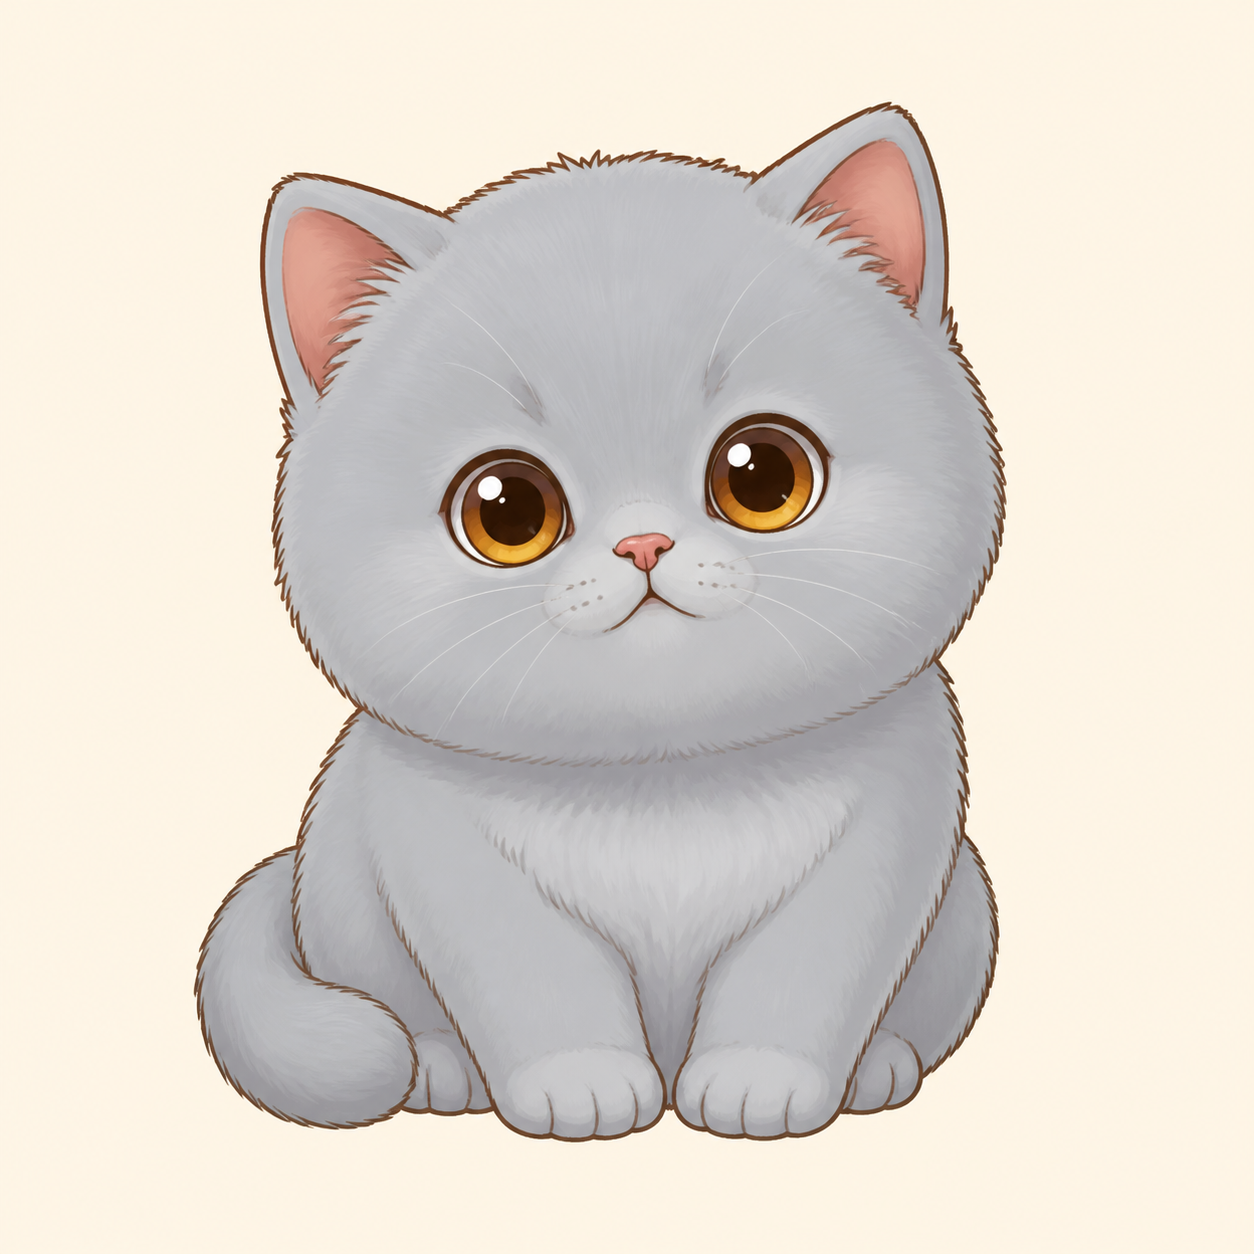
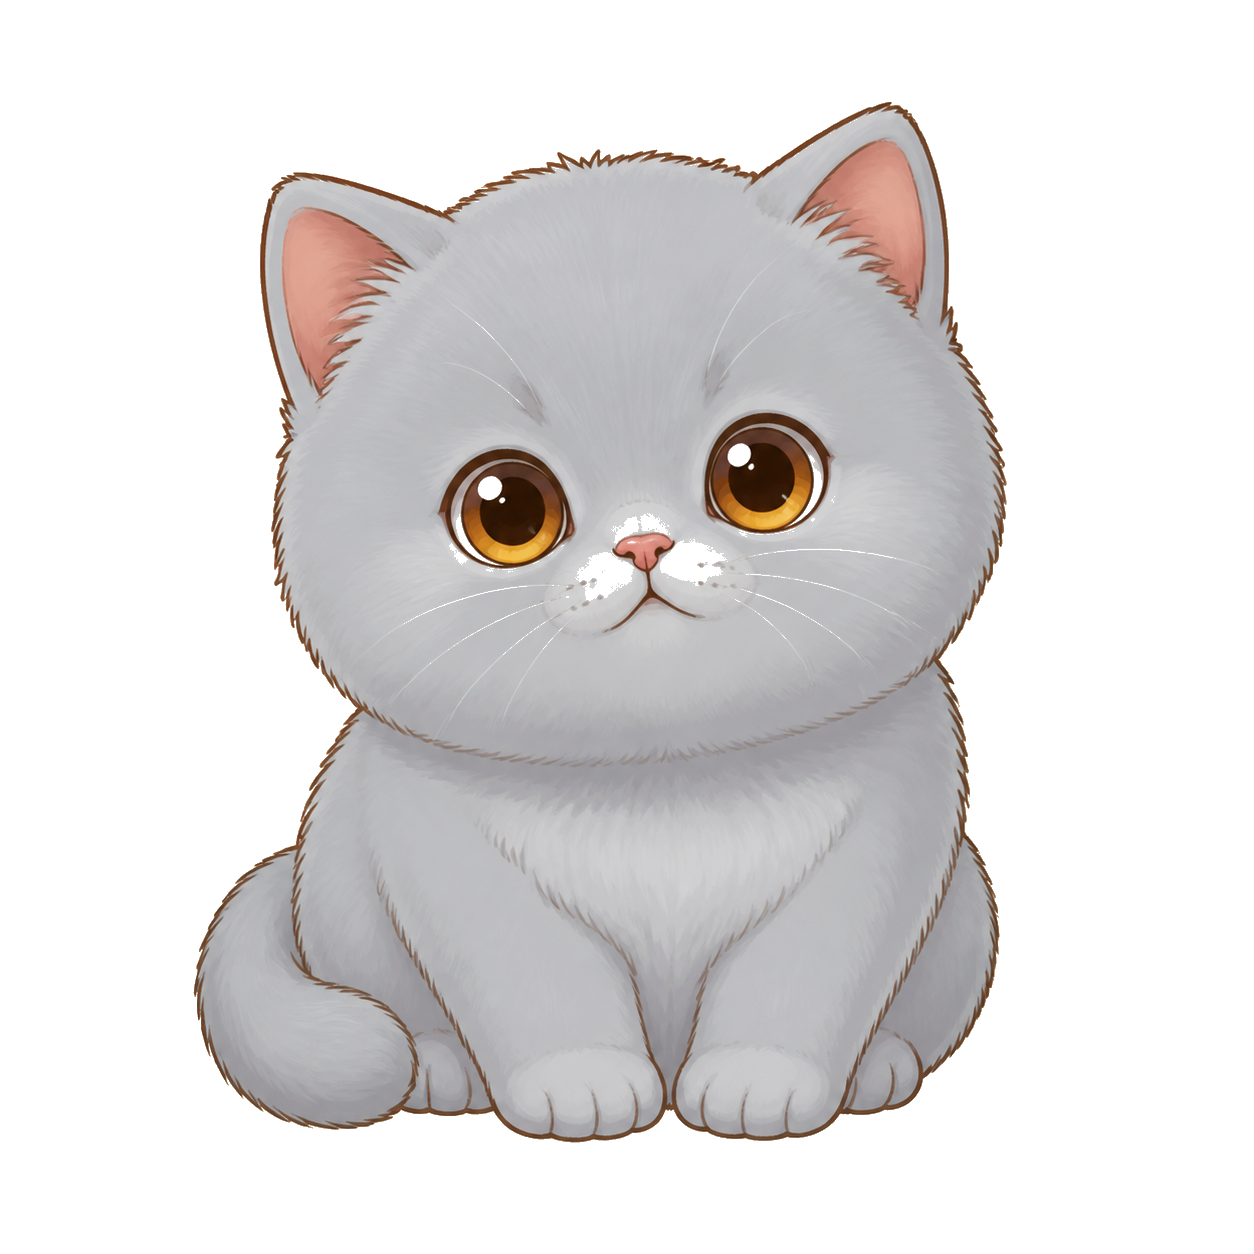
fix: 随行头像RGBA透明化(抠背景色)

diff --git a/tools/make_portrait_transparent.py b/tools/make_portrait_transparent.py
@@ -1,0 +1,22 @@
+from PIL import Image
+import numpy as np
+
+for breed in ['orange', 'british', 'siamese']:
+    path = f'assets/art/delivery/portraits/portrait_{breed}.png'
+    img = Image.open(path).convert('RGBA')
+    arr = np.array(img)
+    
+    # 背景色 = 四角颜色均值
+    corners = [arr[0,0], arr[0,-1], arr[-1,0], arr[-1,-1]]
+    bg = tuple(int(c) for c in np.mean(corners, axis=0)[:3])
+    tolerance = 40
+    
+    r = arr[:,:,0].astype(int)
+    g = arr[:,:,1].astype(int)
+    b = arr[:,:,2].astype(int)
+    mask = (abs(r - bg[0]) < tolerance) & (abs(g - bg[1]) < tolerance) & (abs(b - bg[2]) < tolerance)
+    arr[:,:,3] = np.where(mask, 0, 255)
+    
+    result = Image.fromarray(arr, 'RGBA')
+    result.save(path)
+    print(f'{breed}: transparent bg={bg}, {mask.sum()} pixels cleared')